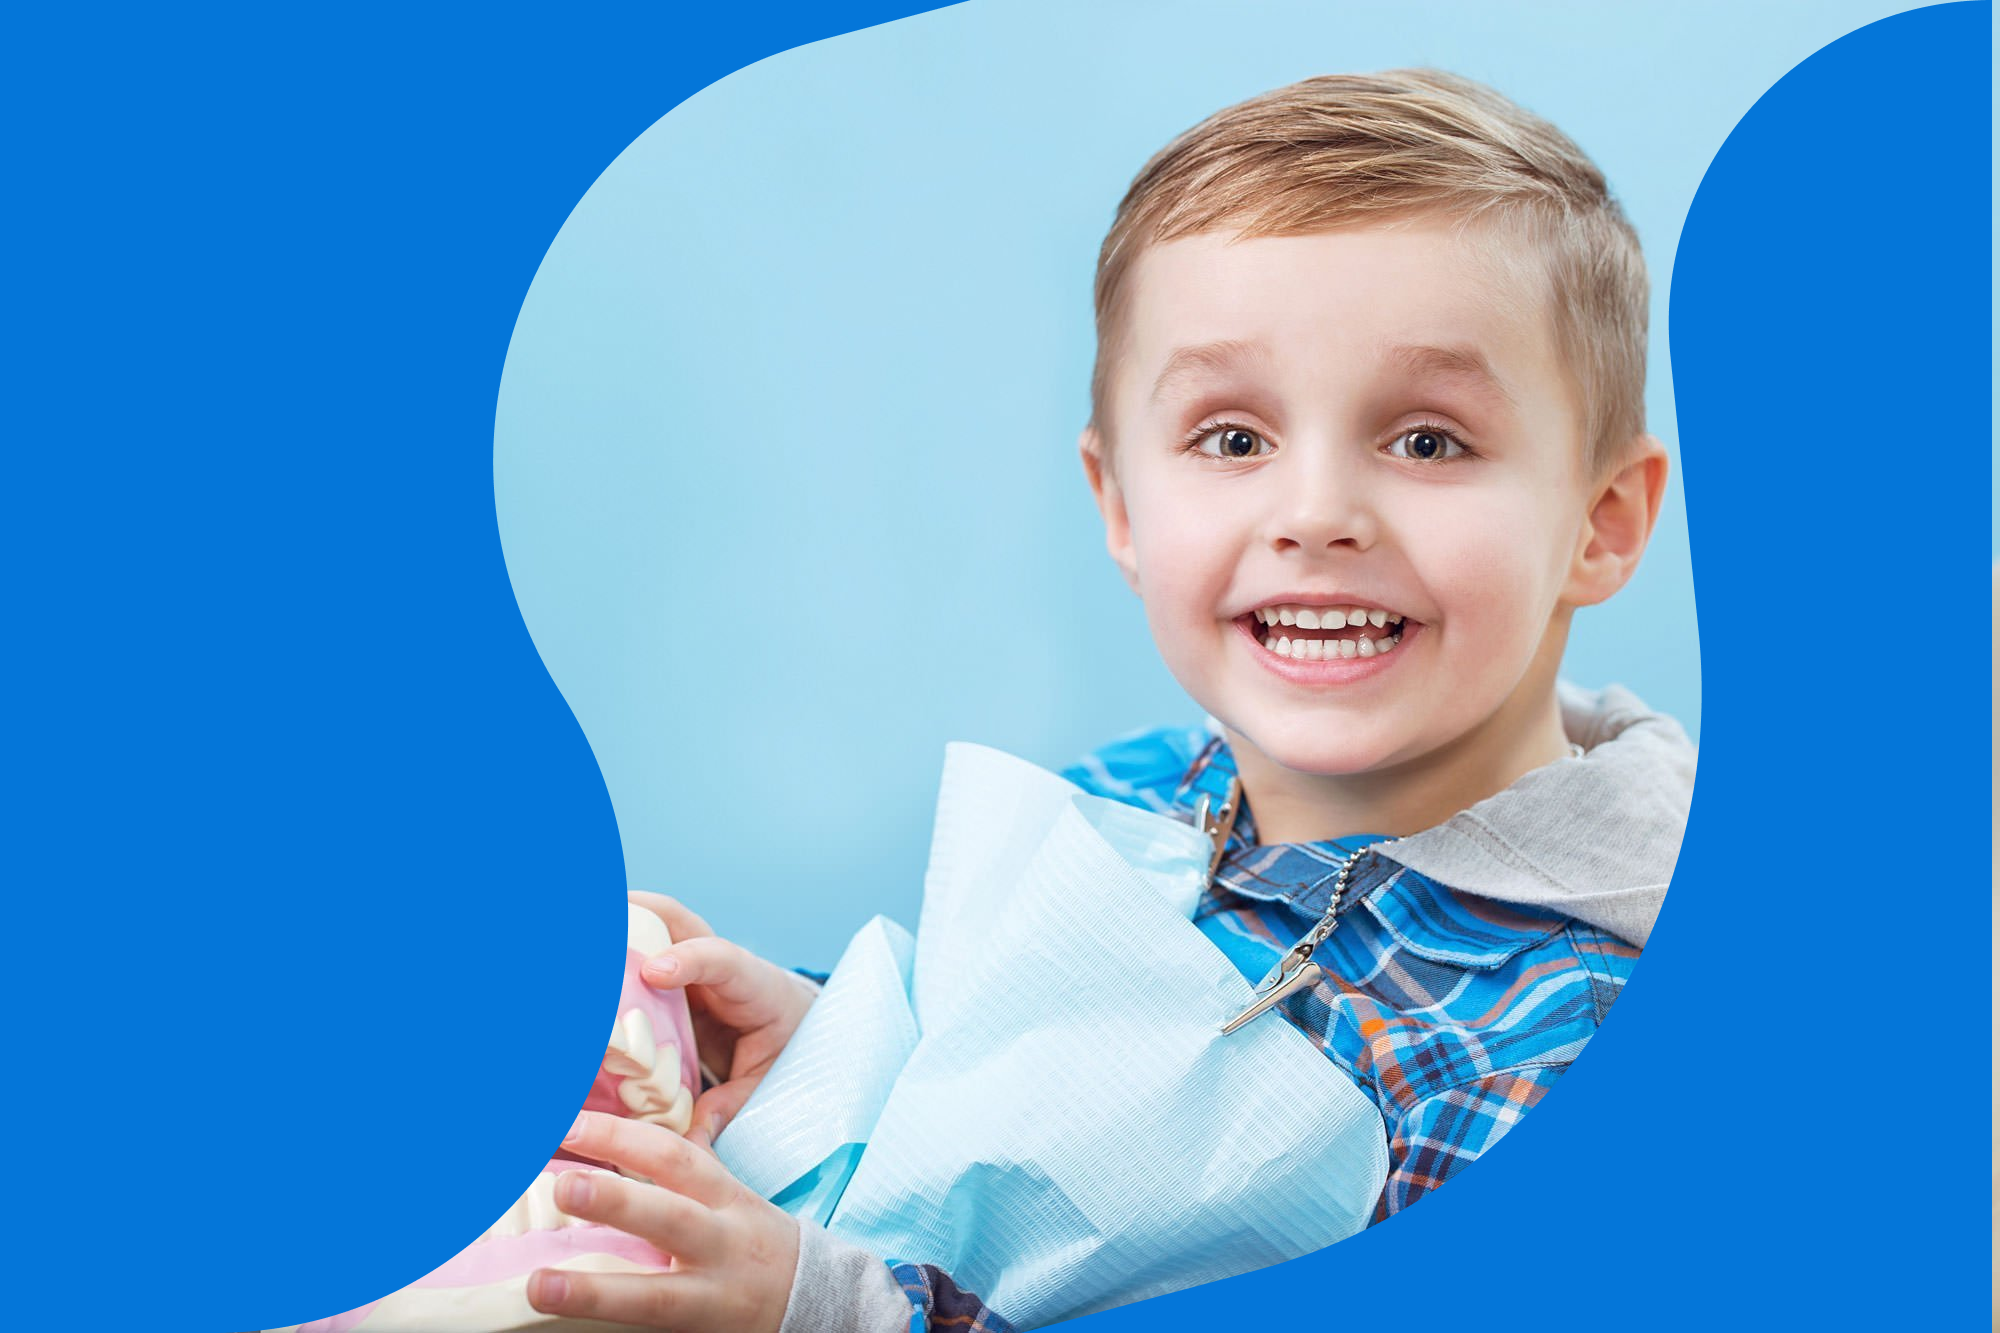
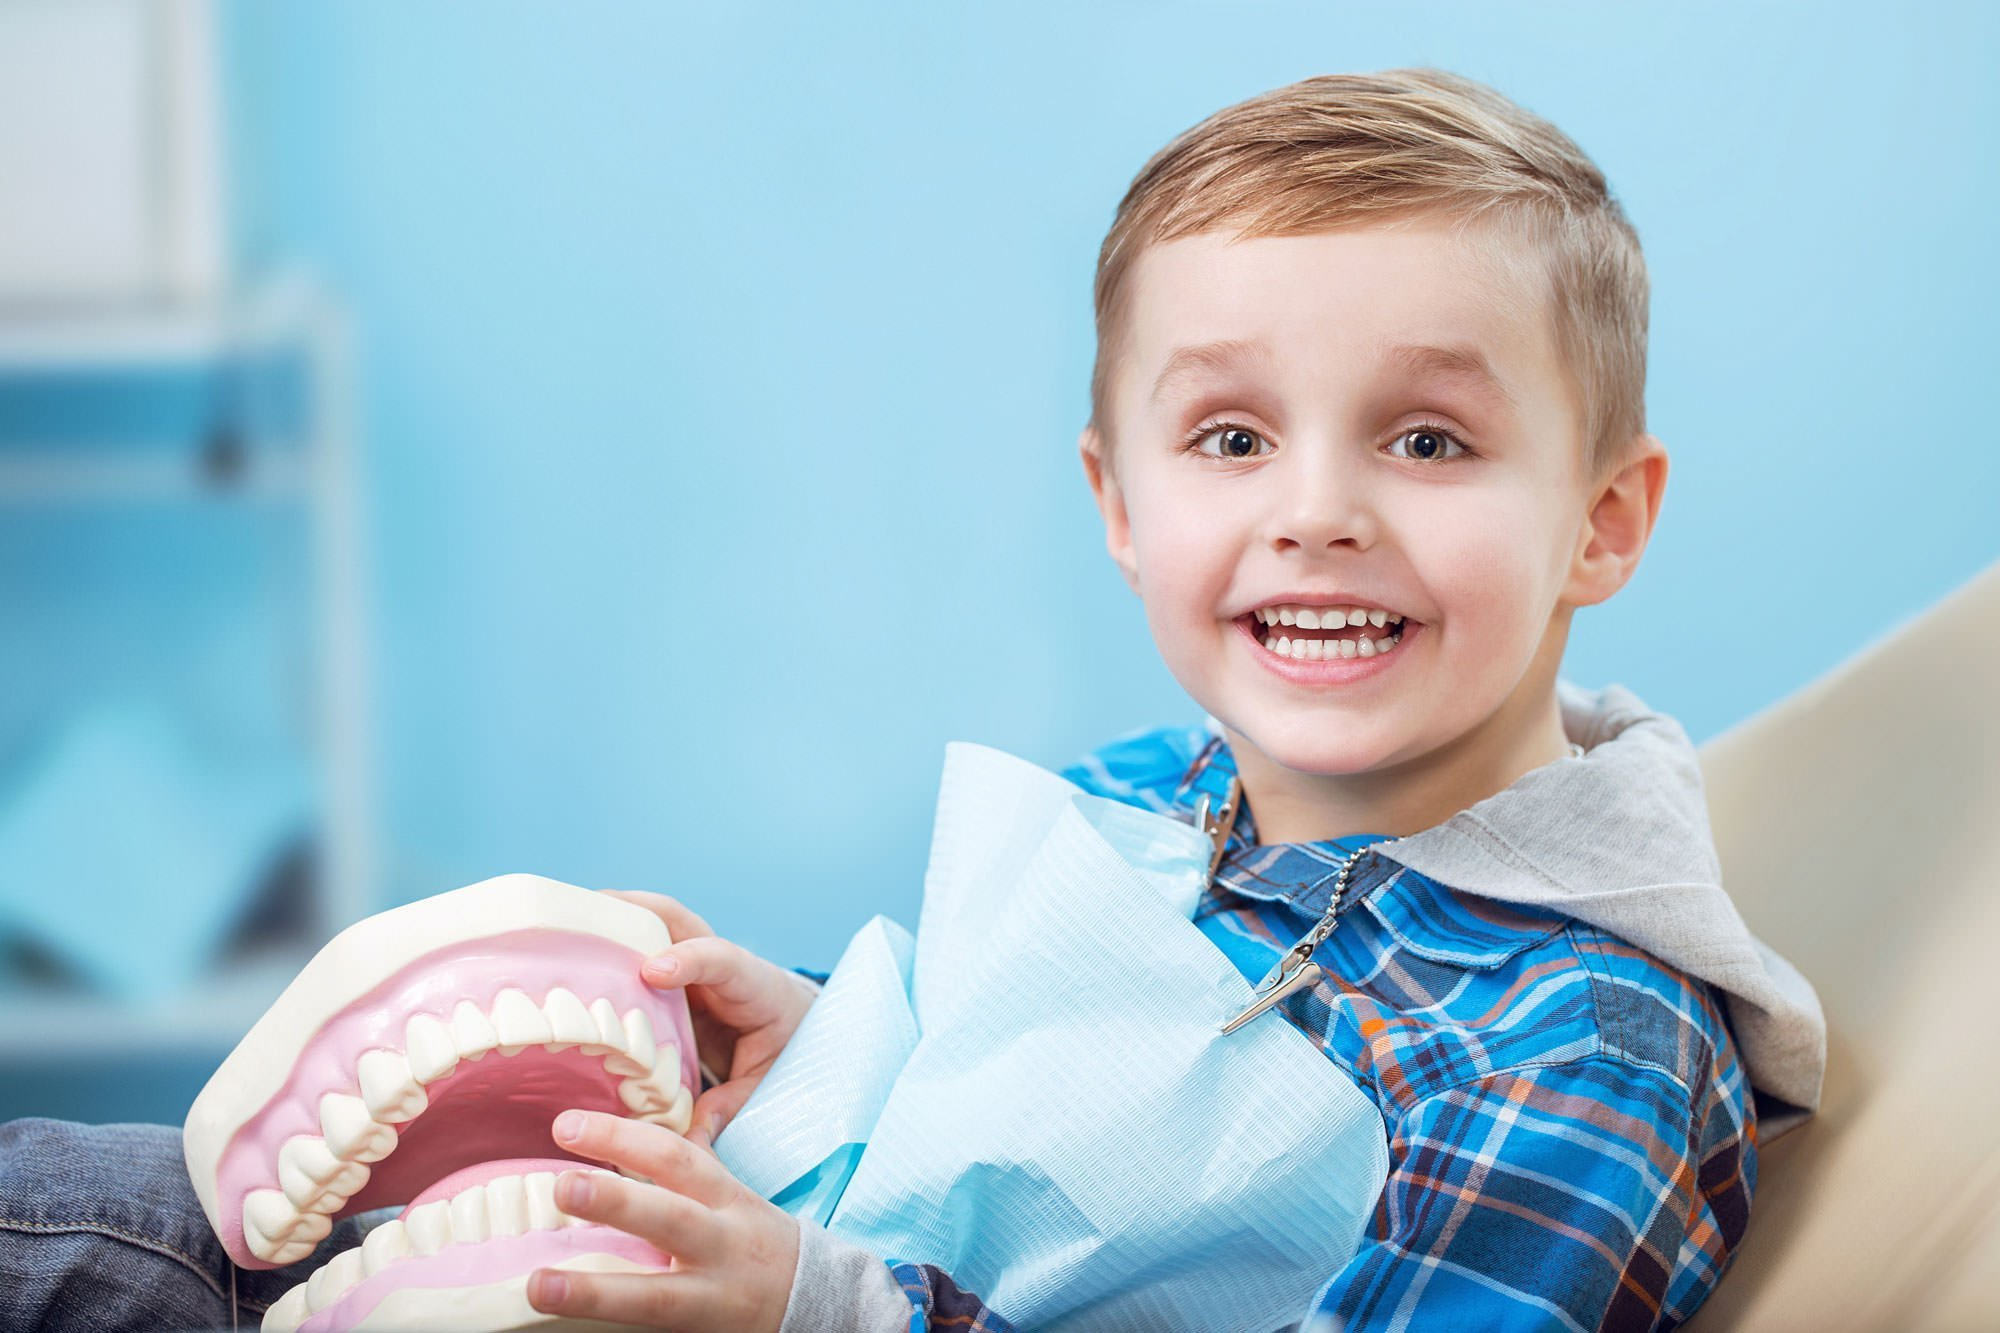
segundo teste

diff --git a/src/components/Header/Header.module.scss b/src/components/Header/Header.module.scss
@@ -2,7 +2,19 @@
 
 .header{
     overflow: hidden;
+    background-color: #0476d9;
+    display: flex;
+    align-items: center;
+    justify-content: center;
     img{
-        width: 100%;
+        height: 32rem;
+        border-radius: 50rem;
+        transition: all .3s ease;
+    }
+    @media screen and(max-width: 600px) {
+        img{
+            height: 32rem;
+            border-radius: 0;
+        }
     }
 }

diff --git a/src/components/Header/index.tsx b/src/components/Header/index.tsx
@@ -5,7 +5,6 @@ export function Header(){
     return (
         <header className={styles.header}>
             <img src={image} ></img>
-            <h1></h1>
         </header>
     )
     

diff --git a/src/index.css b/src/index.css
@@ -29,7 +29,7 @@ code {
   position: relative;
 
   display: grid;
-  grid-template-rows: 6.4rem 80vh 1fr 6.4rem;
+  grid-template-rows: 6.4rem 32rem 1fr 6.4rem;
 }
 
 
